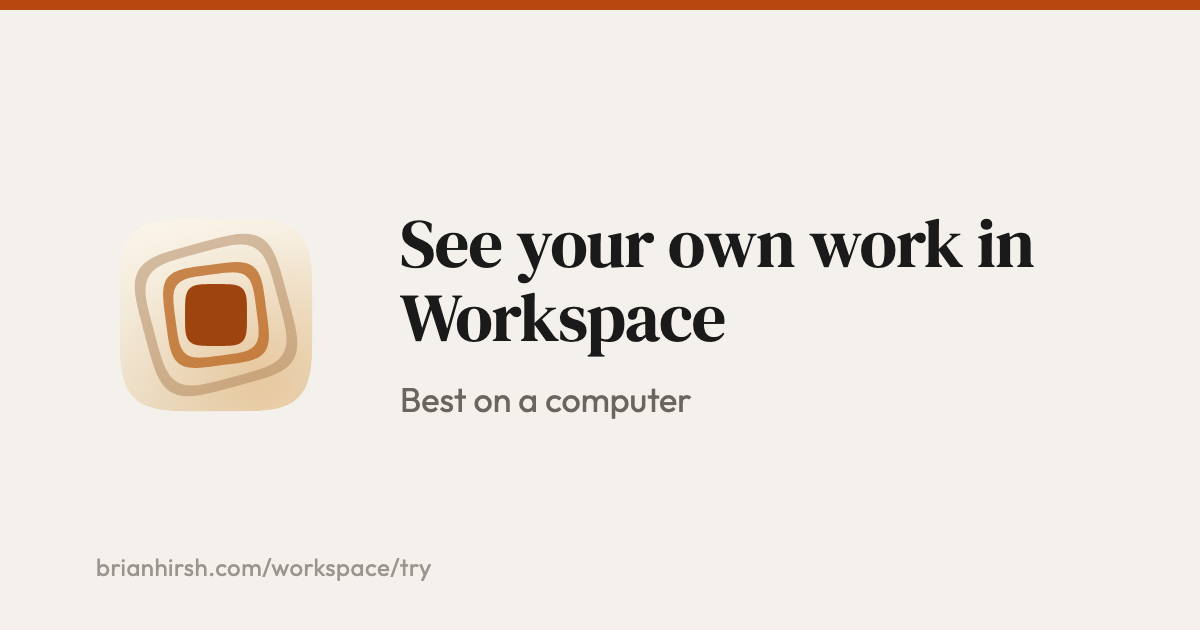
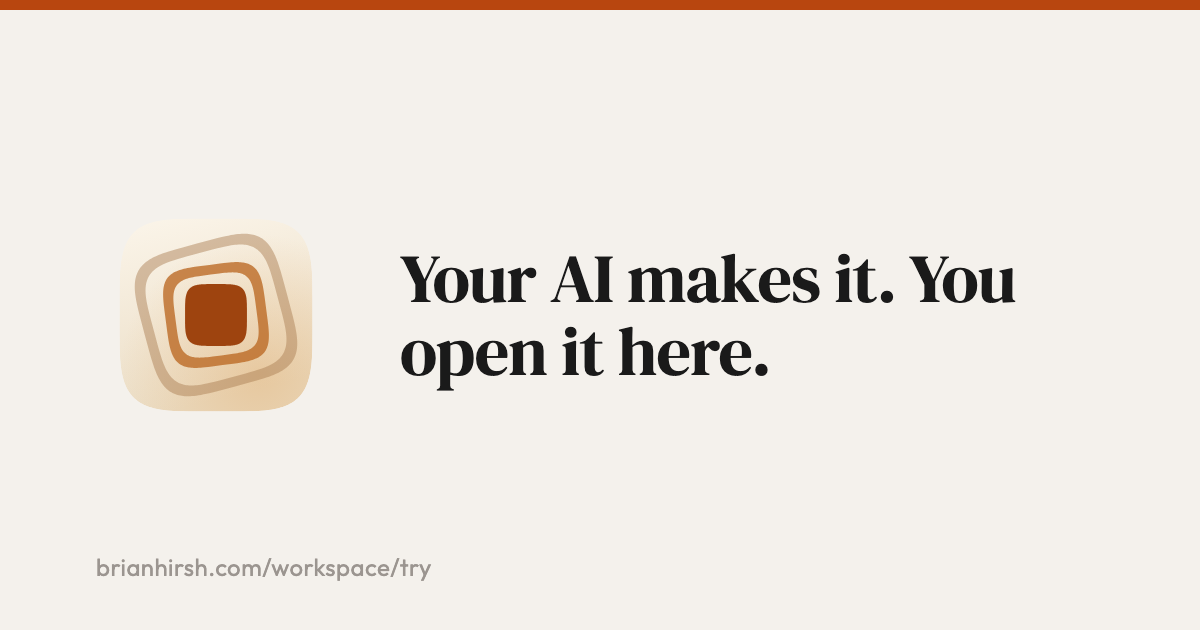
Try page: MC: Invite's prompt-first words, and new link previews for /workspace/try/ and /workspace/ (M-020)
The landing reads "Get your own Workspace" / "Copy this prompt into your AI, then open what it makes here.", and the copied line is "Copied! Paste it into Claude, ChatGPT or any agent, then drop the file it makes here." From Link previews.md: /workspace/try/ is titled "Get your own Workspace, made by your AI" with its new description, and its card is redrawn as "Your AI makes it. You open it here."; /workspace/ gets the shorter description.

Changed region(s): [[0.3083, 0.3317, 0.8633, 0.6635]]

diff --git a/workspace/try/index.html b/workspace/try/index.html
@@ -3,25 +3,25 @@
 <head>
 <meta charset="UTF-8">
 <meta name="viewport" content="width=device-width, initial-scale=1.0">
-<title>Try Workspace with your own work in it</title>
-<meta name="description" content="A try-it-yourself demo: your AI writes a small file about your work, and you see it as Workspace, right in your browser. Best on a computer.">
+<title>Get your own Workspace, made by your AI</title>
+<meta name="description" content="Paste one prompt into your AI. It makes you a themed workspace from what it knows about you, and you open it here.">
 <!-- Link previews (Marketing/Beta Signups/Link previews.md, 27 Oct 2026); the card is drawn by tools/make-og.mjs. -->
 <link rel="canonical" href="https://www.brianhirsh.com/workspace/try/">
 <meta property="og:type" content="website">
 <meta property="og:site_name" content="Brian Hirsh">
-<meta property="og:title" content="Try Workspace with your own work in it">
-<meta property="og:description" content="A try-it-yourself demo: your AI writes a small file about your work, and you see it as Workspace, right in your browser. Best on a computer.">
+<meta property="og:title" content="Get your own Workspace, made by your AI">
+<meta property="og:description" content="Paste one prompt into your AI. It makes you a themed workspace from what it knows about you, and you open it here.">
 <meta property="og:url" content="https://www.brianhirsh.com/workspace/try/">
 <meta property="og:image" content="https://www.brianhirsh.com/og/workspace-try.png">
 <meta property="og:image:type" content="image/png">
 <meta property="og:image:width" content="1200">
 <meta property="og:image:height" content="630">
-<meta property="og:image:alt" content="See your own work in Workspace · Best on a computer">
+<meta property="og:image:alt" content="Your AI makes it. You open it here.">
 <meta name="twitter:card" content="summary_large_image">
-<meta name="twitter:title" content="Try Workspace with your own work in it">
-<meta name="twitter:description" content="A try-it-yourself demo: your AI writes a small file about your work, and you see it as Workspace, right in your browser. Best on a computer.">
+<meta name="twitter:title" content="Get your own Workspace, made by your AI">
+<meta name="twitter:description" content="Paste one prompt into your AI. It makes you a themed workspace from what it knows about you, and you open it here.">
 <meta name="twitter:image" content="https://www.brianhirsh.com/og/workspace-try.png">
-<meta name="twitter:image:alt" content="See your own work in Workspace · Best on a computer">
+<meta name="twitter:image:alt" content="Your AI makes it. You open it here.">
 <meta name="theme-color" content="#FAF9F7" media="(prefers-color-scheme: light)">
 <meta name="theme-color" content="#1A1917" media="(prefers-color-scheme: dark)">
 <link rel="icon" type="image/svg+xml" href="/workspace/media/workspace-logo-light.svg">
@@ -71,8 +71,8 @@
   <input type="file" id="pick" class="visually-hidden" accept=".md,.txt,text/markdown,text/plain" tabindex="-1">
   <section class="intro" id="intro">
   <header class="head">
-    <h1 class="title">Your Workspace, made by your AI</h1>
-    <p class="lede">Copy the prompt into your AI. It writes a file; drop it here and see Workspace with your stuff in it.</p>
+    <h1 class="title">Get your own Workspace</h1>
+    <p class="lede">Copy this prompt into your AI, then open what it makes here.</p>
   </header>
 
   <div id="intake">

diff --git a/workspace/index.html b/workspace/index.html
@@ -4,13 +4,13 @@
 <meta charset="UTF-8">
 <meta name="viewport" content="width=device-width, initial-scale=1.0">
 <title>Workspace — files you and your agents share</title>
-<meta name="description" content="A Mac app where your AI agents work alongside you with full context: pages and databases you both read, and a clear record of what agents changed.">
+<meta name="description" content="A Mac app where your AI agents work alongside you with full context, in pages and databases you both read.">
 <!-- Link previews (Marketing/Beta Signups/Link previews.md, 27 Oct 2026); the card is drawn by tools/make-og.mjs. -->
 <link rel="canonical" href="https://www.brianhirsh.com/workspace/">
 <meta property="og:type" content="website">
 <meta property="og:site_name" content="Brian Hirsh">
 <meta property="og:title" content="Workspace — files you and your agents share">
-<meta property="og:description" content="A Mac app where your AI agents work alongside you with full context: pages and databases you both read, and a clear record of what agents changed.">
+<meta property="og:description" content="A Mac app where your AI agents work alongside you with full context, in pages and databases you both read.">
 <meta property="og:url" content="https://www.brianhirsh.com/workspace/">
 <meta property="og:image" content="https://www.brianhirsh.com/og/workspace.png">
 <meta property="og:image:type" content="image/png">
@@ -19,7 +19,7 @@
 <meta property="og:image:alt" content="A place for you + agents to collaborate">
 <meta name="twitter:card" content="summary_large_image">
 <meta name="twitter:title" content="Workspace — files you and your agents share">
-<meta name="twitter:description" content="A Mac app where your AI agents work alongside you with full context: pages and databases you both read, and a clear record of what agents changed.">
+<meta name="twitter:description" content="A Mac app where your AI agents work alongside you with full context, in pages and databases you both read.">
 <meta name="twitter:image" content="https://www.brianhirsh.com/og/workspace.png">
 <meta name="twitter:image:alt" content="A place for you + agents to collaborate">
 <meta name="theme-color" content="#F4F1EC" media="(prefers-color-scheme: light)">

diff --git a/workspace/try/getfile.js b/workspace/try/getfile.js
@@ -11,7 +11,7 @@
 import { PAGE_PROMPT } from './prompt-data.js';
 
 const WORDS = {
-  copied: 'Copied! Paste it into Claude, ChatGPT or whatever AI you use, then drop the file it makes below.',
+  copied: 'Copied! Paste it into Claude, ChatGPT or any agent, then drop the file it makes here.',
   failed: "Couldn't copy. Select the prompt and copy it yourself.",
 };
 
